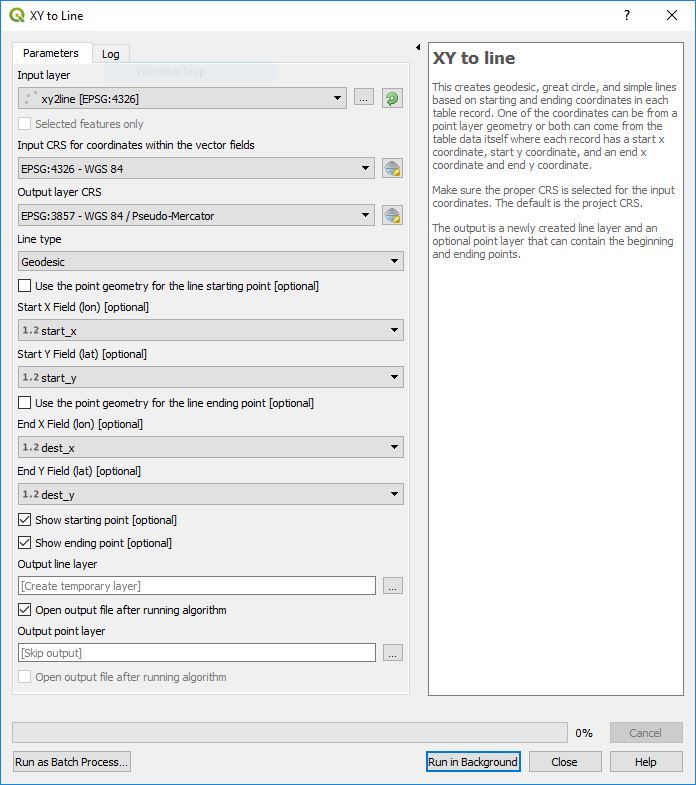
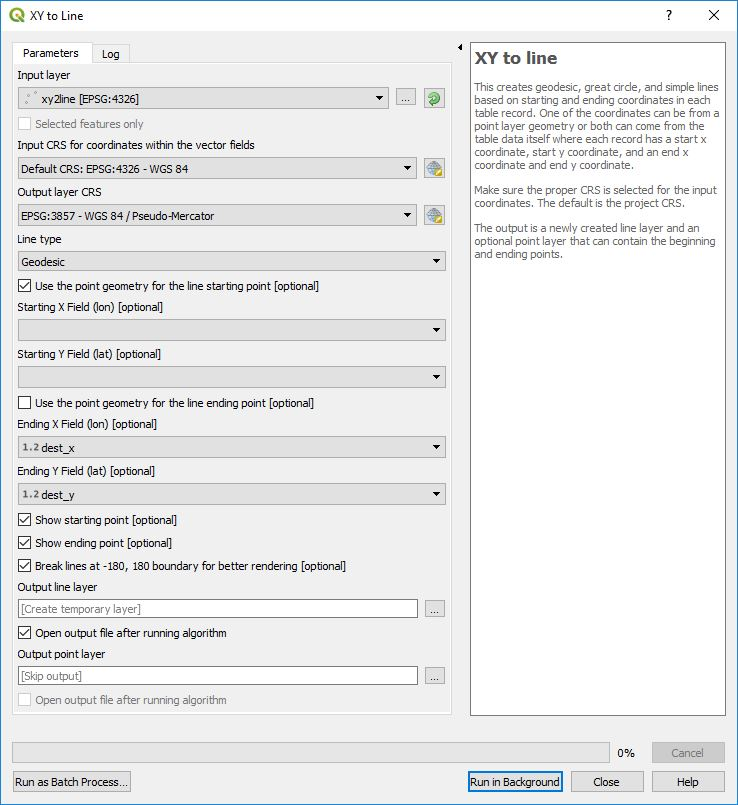
provide better xy to line rendering

diff --git a/xyToLine.py b/xyToLine.py
@@ -46,6 +46,7 @@ class XYToLineAlgorithm(QgsProcessingAlgorithm):
     PrmEndYField = 'EndYField'
     PrmShowStartPoint = 'ShowStartPoint'
     PrmShowEndPoint = 'ShowEndPoint'
+    PrmDateLineBreak = 'DateLineBreak'
     geod = Geodesic.WGS84
 
     def initAlgorithm(self, config):
@@ -140,6 +141,13 @@ class XYToLineAlgorithm(QgsProcessingAlgorithm):
                 optional=True)
             )
         self.addParameter(
+            QgsProcessingParameterBoolean(
+                self.PrmDateLineBreak,
+                tr('Break lines at -180, 180 boundary for better rendering'),
+                False,
+                optional=True)
+            )
+        self.addParameter(
             QgsProcessingParameterFeatureSink(
                 self.PrmOutputLineLayer,
                 tr('Output line layer'))
@@ -165,10 +173,21 @@ class XYToLineAlgorithm(QgsProcessingAlgorithm):
         endYcol = self.parameterAsString(parameters, self.PrmEndYField, context)
         showStart =  self.parameterAsBool(parameters, self.PrmShowStartPoint, context)
         showEnd =  self.parameterAsBool(parameters, self.PrmShowEndPoint, context)
+        dateLine =  self.parameterAsBool(parameters, self.PrmDateLineBreak, context)
         
-        (lineSink, lineDest_id) = self.parameterAsSink(parameters,
-            self.PrmOutputLineLayer, context, source.fields(),
-            QgsWkbTypes.LineString, sinkCrs)
+        if dateLine and lineType <= 1:
+            isMultiPart = True
+        else:
+            isMultiPart = False
+        
+        if isMultiPart:
+            (lineSink, lineDest_id) = self.parameterAsSink(parameters,
+                self.PrmOutputLineLayer, context, source.fields(),
+                QgsWkbTypes.MultiLineString, sinkCrs)
+        else:
+            (lineSink, lineDest_id) = self.parameterAsSink(parameters,
+                self.PrmOutputLineLayer, context, source.fields(),
+                QgsWkbTypes.LineString, sinkCrs)
         (ptSink, ptDest_id) = self.parameterAsSink(parameters,
             self.PrmOutputPointLayer, context, source.fields(),
             QgsWkbTypes.Point, sinkCrs)
@@ -230,8 +249,6 @@ class XYToLineAlgorithm(QgsProcessingAlgorithm):
                     if sourceCrs != epsg4326:
                         ptEnd = sourceTo4326.transform(ptEnd)
                 pts = [ptStart]
-                # If we have a simple line, these if/elif statements are skipped because we only
-                # need the beginning and ending points.
                 if lineType == 0: # Geodesic
                     l = self.geod.InverseLine(ptStart.y(), ptStart.x(), ptEnd.y(), ptEnd.x())
                     if l.s13 > maxseglen:
@@ -239,32 +256,42 @@ class XYToLineAlgorithm(QgsProcessingAlgorithm):
                         if n > maxSegments:
                             n = maxSegments
                         seglen = l.s13 / n
-                        for i in range(1,n):
+                        for i in range(1,n+1):
                             s = seglen * i
-                            g = l.Position(s, Geodesic.LATITUDE | Geodesic.LONGITUDE | Geodesic.LONG_UNROLL)
+                            g = l.Position(s, Geodesic.LATITUDE | Geodesic.LONGITUDE)
                             pts.append( QgsPointXY(g['lon2'], g['lat2']) )
                 elif lineType == 1: # Great circle
                     pts = LatLon.getPointsOnLine(ptStart.y(), ptStart.x(),
                         ptEnd.y(), ptEnd.x(),
                         settings.maxSegLength*1000.0, # Put it in meters
                         settings.maxSegments+1)
-                pts.append(ptEnd)
-                if sinkCrs != epsg4326: # Convert each point to the output CRS
-                    for x, pt in enumerate(pts):
-                        pts[x] = toSinkCrs.transform(pt)
+                    pts.append(ptEnd)
+                else: # Simple line
+                    pts.append(ptEnd)
                 f = QgsFeature()
-                f.setGeometry(QgsGeometry.fromPolylineXY(pts))
+                if isMultiPart:
+                    outseg = self.checkCrossings(pts)
+                    if sinkCrs != epsg4326: # Convert each point to the output CRS
+                        for y in range(len(outseg)):
+                            for x, pt in enumerate(outseg[y]):
+                                outseg[y][x] = toSinkCrs.transform(pt)
+                    f.setGeometry(QgsGeometry.fromMultiPolylineXY(outseg))
+                else:
+                    if sinkCrs != epsg4326: # Convert each point to the output CRS
+                        for x, pt in enumerate(pts):
+                            pts[x] = toSinkCrs.transform(pt)
+                    f.setGeometry(QgsGeometry.fromPolylineXY(pts))
                 f.setAttributes(feature.attributes())
                 lineSink.addFeature(f)
                 
                 if showStart:
                     f = QgsFeature()
-                    f.setGeometry(QgsGeometry.fromPointXY(pts[0]))
+                    f.setGeometry(QgsGeometry.fromPointXY(toSinkCrs.transform(ptStart)))
                     f.setAttributes(feature.attributes())
                     ptSink.addFeature(f)
                 if showEnd:
                     f = QgsFeature()
-                    f.setGeometry(QgsGeometry.fromPointXY(pts[len(pts)-1]))
+                    f.setGeometry(QgsGeometry.fromPointXY(toSinkCrs.transform(ptEnd)))
                     f.setAttributes(feature.attributes())
                     ptSink.addFeature(f)
             except:
@@ -279,6 +306,39 @@ class XYToLineAlgorithm(QgsProcessingAlgorithm):
         
             
         return {self.PrmOutputLineLayer: lineDest_id, self.PrmOutputPointLayer: ptDest_id}
+    
+    def checkCrossings(self, pts):
+        outseg = []
+        ptlen = len(pts)
+        pts2 = [pts[0]]
+        for i in range(1,ptlen):
+            if pts[i-1].x() < -130 and pts[i].x() > 130: # We have crossed the date line going west
+                ld = self.geod.Inverse(pts[i-1].y(), pts[i-1].x(), pts[i].y(), pts[i].x())
+                try:
+                    (intrlat, intrlon) = intersection_point(-89,-180, 0, pts[i-1].y(), pts[i-1].x(), ld['azi1'])
+                    ptnew = QgsPointXY(-180, intrlat)
+                    pts2.append(ptnew)
+                    outseg.append(pts2)
+                    ptnew = QgsPointXY(180, intrlat)
+                    pts2 = [ptnew]
+                except:
+                    pts2.append(pts[i])
+            if pts[i-1].x() > 130 and pts[i].x() < -130: # We have crossed the date line going east
+                ld = self.geod.Inverse(pts[i-1].y(), pts[i-1].x(), pts[i].y(), pts[i].x())
+                try:
+                    (intrlat, intrlon) = intersection_point(-89,180, 0, pts[i-1].y(), pts[i-1].x(), ld['azi1'])
+                    ptnew = QgsPointXY(180, intrlat)
+                    pts2.append(ptnew)
+                    outseg.append(pts2)
+                    ptnew = QgsPointXY(-180, intrlat)
+                    pts2 = [ptnew]
+                except:
+                    pts2.append(pts[i])
+            else:
+                pts2.append(pts[i])
+        outseg.append(pts2)
+
+        return(outseg)
         
     def name(self):
         return 'xy2line'
@@ -312,3 +372,41 @@ class XYToLineAlgorithm(QgsProcessingAlgorithm):
     def createInstance(self):
         return XYToLineAlgorithm()
 
+def intersection_point(lat1, lon1, bearing1, lat2, lon2, bearing2):
+    o1 = math.radians(lat1)
+    lam1 = math.radians(lon1)
+    o2 = math.radians(lat2)
+    lam2 = math.radians(lon2)
+    bo_13 = math.radians(bearing1)
+    bo_23 = math.radians(bearing2)
+    
+    diff_fo = o2 - o1
+    diff_la = lam2 - lam1
+    d12 = 2 * math.asin(math.sqrt(math.sin(diff_fo / 2) * math.sin(diff_fo / 2) + math.cos(o1) * math.cos(o2) * math.sin(diff_la / 2) * math.sin(diff_la / 2)))
+    if d12 == 0: # intersection_not_found
+        raise ValueError('Intersection not found')
+
+    print("bo_2 numerator: {}".format(math.sin(o1) - math.sin(o2) * math.cos(d12)))
+    print("bo_2 denominator: {}".format(math.sin(d12) * math.cos(o2)))
+    bo_1 = math.acos((math.sin(o2) - math.sin(o1) * math.cos(d12)) / (math.sin(d12) * math.cos(o1)))
+    bo_2 = math.acos((math.sin(o1) - math.sin(o2) * math.cos(d12)) / (math.sin(d12) * math.cos(o2)))
+    if math.sin(lam2 - lam1) > 0:
+        bo_12 = bo_1
+        bo_21 = 2 * math.pi - bo_2
+    else:
+        bo_12 = 2 * math.pi - bo_1
+        bo_21 = bo_2
+    a_1 = ((bo_13 - bo_12 + math.pi) % (2 * math.pi)) - math.pi
+    a_2 = ((bo_21 - bo_23 + math.pi) % (2 * math.pi)) - math.pi
+    if (math.sin(a_1) == 0) and (math.sin(a_2) == 0): # infinite intersections
+        raise ValueError('Intersection not found')
+    if math.sin(a_1) * math.sin(a_2) < 0: # ambiguous intersection
+        raise ValueError('Intersection not found')
+
+    a_3 = math.acos(-math.cos(a_1) * math.cos(a_2) + math.sin(a_1) * math.sin(a_2) * math.cos(d12))
+    be_13 = math.atan2(math.sin(d12) * math.sin(a_1) * math.sin(a_2), math.cos(a_2) + math.cos(a_1) * math.cos(a_3))
+    fo_3 = math.asin(math.sin(o1) * math.cos(be_13) + math.cos(o1) * math.sin(be_13) * math.cos(bo_13))
+    diff_lam13 = math.atan2(math.sin(bo_13) * math.sin(be_13) * math.cos(o1), math.cos(be_13) - math.sin(o1) * math.sin(fo_3))
+    la_3 = lam1 + diff_lam13
+
+    return (math.degrees(fo_3), math.degrees(la_3))

diff --git a/readme.md b/readme.md
@@ -98,6 +98,8 @@ This creates geodesic, great circle, or simple lines based on starting and endin
 
 **Show ending point** - If checked the output point layer will include an entry for the ending point if an **Output point layer** has been specified.
 
+**Break lines at -180, 180 boundary for better rendering** - Depending on the QGIS projection when lines cross the international date line, strange behavior may occur. Checking this box breaks the line at the -180, 180 boundary in a way that it displays properly.
+
 This function can also be accessed from the **Processing Toolbox**.
 
 <div style="text-align:center"><img src="doc/processing.jpg" alt="Processing Toolbox"></div>
